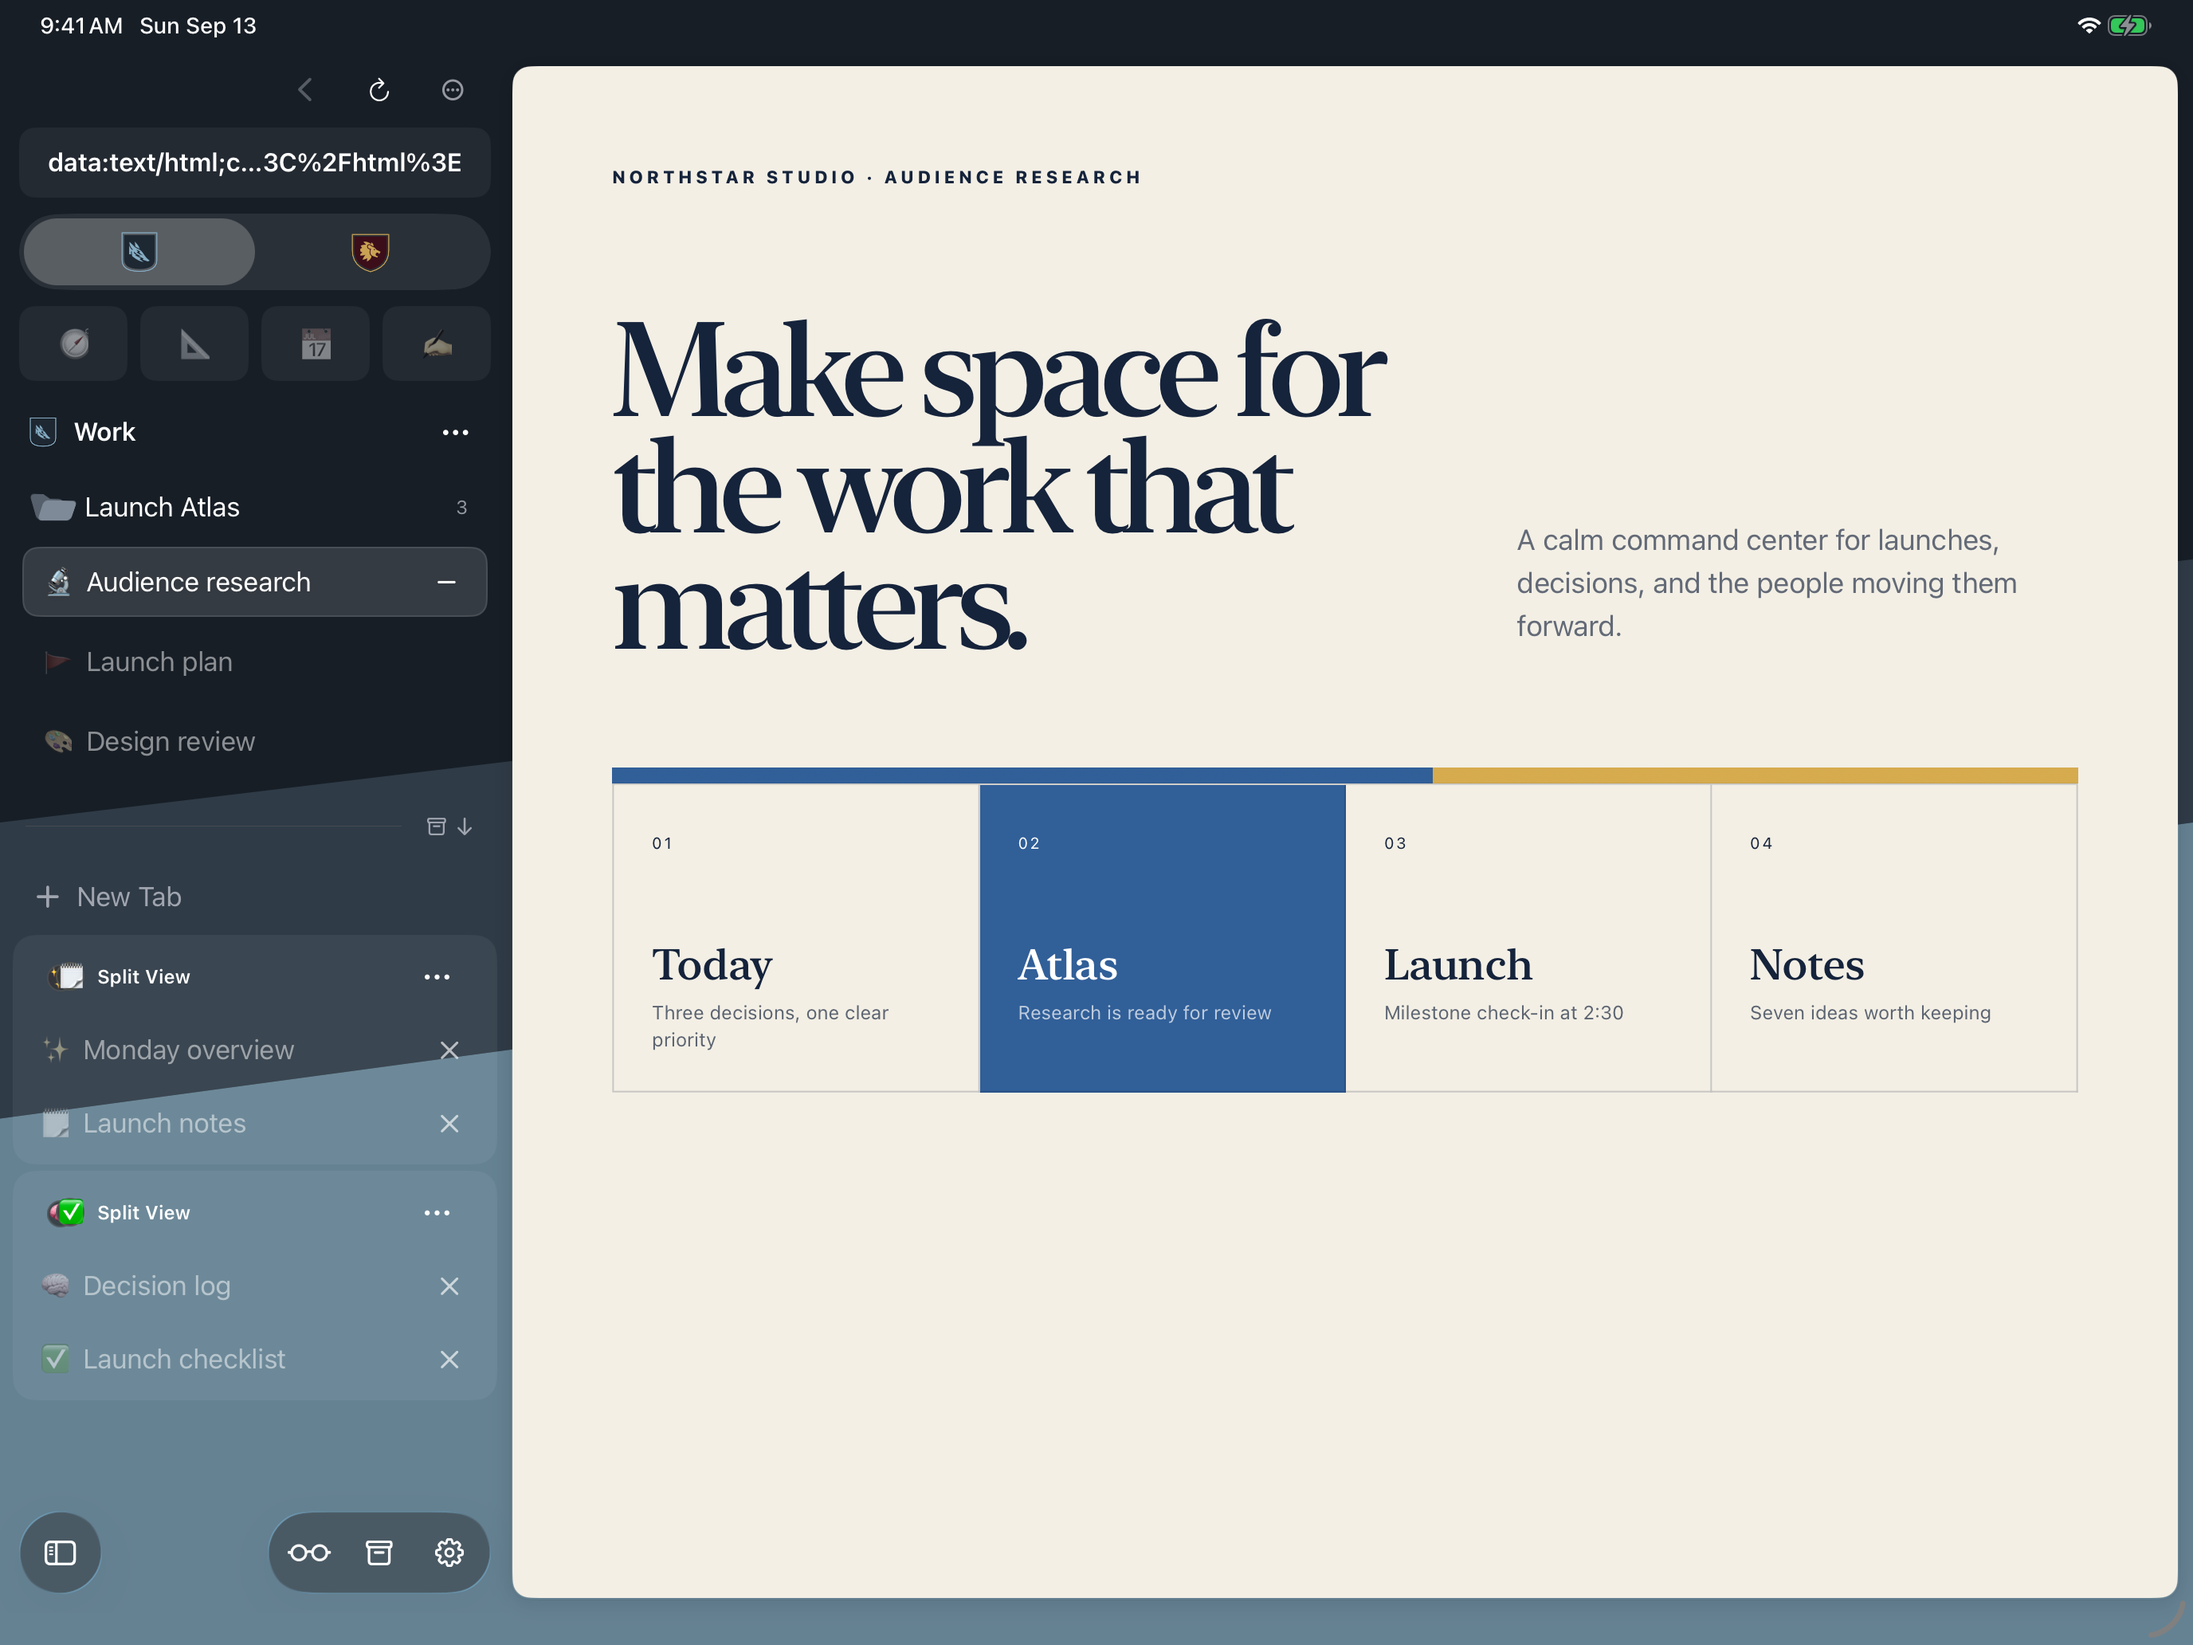
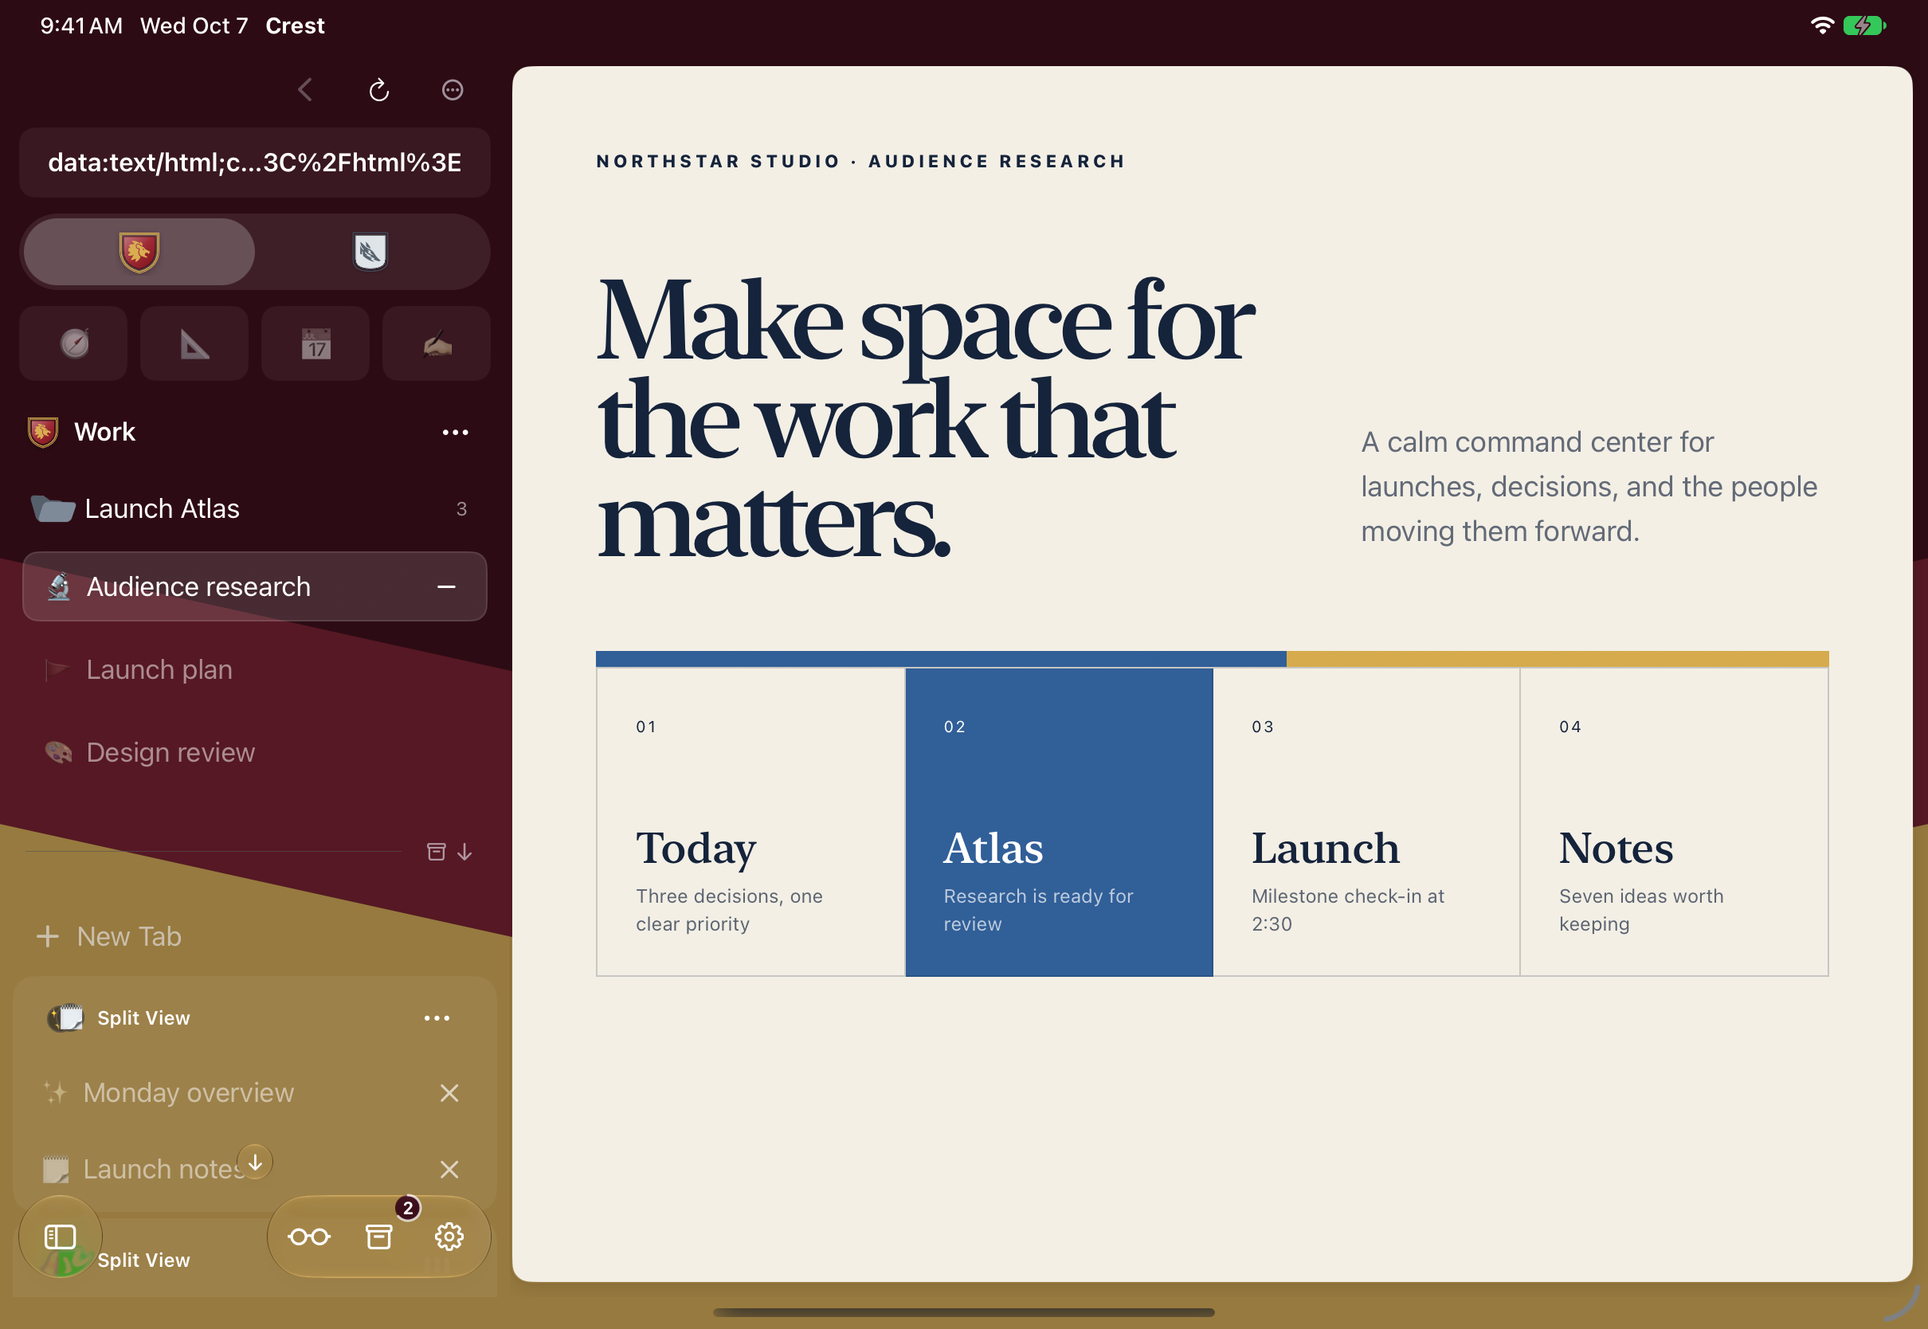
Redesign Settings and Crest Studio (crest-browser/Crest#293)
Closes crest-browser/Crest#282
Closes crest-browser/Crest#194

## Problem
- Settings looked busy and said too much: tiled icons and serif cards on
every section, a footnote under most rows, four separate Space pickers,
and one Space's settings spread over several pages.
- Crest Studio offered dozens of controls at once, and a crest could
wear at most four colors.
- Switching Spaces with Settings open stuttered, and Settings pages
scrolled heavily.
- On iPad, a normal tap or click often did nothing on buttons and menus
such as Manage Search Engines; only a long press worked (crest-browser/Crest#194).
- A tab whose stored address wasn't an ordinary web link, or was very
long, became a search when it reloaded.

## Cause
- Settings was built from custom cards and grids rather than native
forms, and Space settings had no single home.
- Settings rebuilt its form before every slide into its Space, updated
scroll state on every frame, and its page surface lacked a size the
pager could reuse.
- On iPad, tap gestures on the sidebar and page containers competed with
the buttons and menus inside them.
- Reopened addresses were sent through the same path as typed text.

## Fix
- Native grouped Settings that say less. Every Space has its own page in
the Settings sidebar (Appearance, Browsing, Privacy, Passwords,
Extensions), where Spaces are added, renamed, rearranged, locked and
deleted. Tab options have their own Tabs page, and a header shows the
version and engine.
[…]

diff --git a/site/index.html b/site/index.html
@@ -168,10 +168,13 @@ html:not(.noanim) .chip-t .tile{animation:bob var(--d,7s) ease-in-out var(--dl,0
 .chip-t .edge{left:-2.5px;right:-2.5px;top:2px;bottom:-4px;background:#fff;opacity:0;transition:opacity .25s}
 .chip-t .flagc{left:0;right:0;top:3px;bottom:0;display:flex;flex-direction:column;align-items:center;padding-top:14px;background:var(--field) 0 0/100% 100% no-repeat}
 .chip-t .flagc img{width:62px;height:62px}
+/* A crest's art leaves room around it for its shadow; draw it at the box's size. */
+img[src*="crests/"]{transform:scale(1.32)}
 .chip-t:hover .tile{filter:drop-shadow(0 24px 20px rgba(0,0,0,.6)) brightness(1.08)}
 .chip-t[aria-pressed=true] .edge{opacity:.9}
 .chip-t:focus-visible{outline:none}
 .chip-t:focus-visible .edge{opacity:1}
+.chip-t.crowded{display:none}
 @media (max-width:1180px){.chip-t{--s:.84 !important}.chip-t[data-t=sun],.chip-t[data-t=vigil]{display:none}}
 @media (max-width:980px){.chip-t[data-t=meadow],.chip-t[data-t=river]{display:none}.chip-t{--s:.72 !important}}
 @media (max-width:760px){
@@ -434,7 +437,7 @@ html:not(.noanim) .tour-in .mac{animation:rise 1s cubic-bezier(.2,.7,.2,1) both 
   .flags::-webkit-scrollbar{display:none}
   .flag{scroll-snap-align:start}
 }
-/* Studio and Look and Feel captures */
+/* Studio and Appearance captures */
 .personalize-row{display:grid;grid-template-columns:minmax(0,1.7fr) minmax(0,1fr);gap:clamp(2rem,5vw,4rem);align-items:center;margin-top:clamp(3rem,6vw,4.5rem)}
 .personalize-row.reverse{grid-template-columns:minmax(0,1fr) minmax(0,1.7fr)}
 .personalize-row.reverse figure{order:2}
@@ -626,7 +629,7 @@ footer p a{text-decoration:underline;text-underline-offset:3px;text-decoration-c
 
     <div class="personalize-row rv">
       <figure class="product-shot">
-        <a href="assets/crest-studio-mac.png" aria-label="View Crest Studio at full size"><img src="assets/crest-studio-mac.png" width="2800" height="1800" alt="Crest Studio on Mac with the Winter template selected and a live preview of the Work Space" loading="lazy" decoding="async"></a>
+        <a href="assets/crest-studio-mac.png" aria-label="View Crest Studio at full size"><img src="assets/crest-studio-mac.png" width="2800" height="1800" alt="Crest Studio on Mac with the Personal Space’s Winter crest on its sidebar background, its colors, and the shape step beside the live sidebar" loading="lazy" decoding="async"></a>
       </figure>
       <div class="personalize-copy">
         <h3>Crest Studio</h3>
@@ -636,12 +639,12 @@ footer p a{text-decoration:underline;text-underline-offset:3px;text-decoration-c
     </div>
     <div class="personalize-row reverse rv">
       <figure class="product-shot">
-        <a href="assets/crest-look-and-feel-mac.png" aria-label="View Look and Feel settings at full size"><img src="assets/crest-look-and-feel-mac.png" width="2800" height="1800" alt="Look and Feel settings on Mac with window, sidebar, tab shape, and pin layout controls" loading="lazy" decoding="async"></a>
+        <a href="assets/crest-look-and-feel-mac.png" aria-label="View Appearance settings at full size"><img src="assets/crest-look-and-feel-mac.png" width="2800" height="1800" alt="Appearance settings on Mac with window, accent, tab shape, and pin layout controls" loading="lazy" decoding="async"></a>
       </figure>
       <div class="personalize-copy">
-        <h3>Look and Feel</h3>
+        <h3>Appearance</h3>
         <p>Sidebar side, tab shape, pins, and address colors.</p>
-        <a class="text-link" href="guides/settings-reference/">Look and Feel settings →</a>
+        <a class="text-link" href="guides/settings-reference/#appearance">Appearance settings →</a>
       </div>
     </div>
   </div>
@@ -693,8 +696,8 @@ footer p a{text-decoration:underline;text-underline-offset:3px;text-decoration-c
     </div>
     <div class="devstack rv" id="devstack" data-dev="mac">
       <div class="ds-scene">
-        <div class="ds-item ds-mac" data-devitem="mac"><img src="assets/crest-work-mac.png" alt="Crest on Mac with the Winter Work Space first, Lion Personal second, and Audience research open in the Launch Atlas folder" width="2800" height="1800" loading="lazy" decoding="async"></div>
-        <div class="ds-item ds-ipad" data-devitem="ipad"><div class="bezel ipad-bz"><img src="assets/crest-work-ipad.png" alt="The same Work Space and Audience research page on iPad" width="2752" height="2064" loading="lazy" decoding="async"></div></div>
+        <div class="ds-item ds-mac" data-devitem="mac"><img src="assets/crest-work-mac.png" alt="Crest on Mac with the Lion Work Space first, Winter Personal second, and Audience research open in the Launch Atlas folder" width="2800" height="1800" loading="lazy" decoding="async"></div>
+        <div class="ds-item ds-ipad" data-devitem="ipad"><div class="bezel ipad-bz"><img src="assets/crest-work-ipad.png" alt="The same Work Space and Audience research page on iPad" width="2420" height="1668" loading="lazy" decoding="async"></div></div>
         <div class="ds-item ds-phone" data-devitem="iphone"><div class="bezel phone-bz"><img src="assets/crest-work-iphone-sidebar.png" alt="The same Work Space and Launch Atlas folder in the iPhone sidebar" width="1206" height="2622" loading="lazy" decoding="async"></div></div>
       </div>
       <div class="segs light" role="tablist" aria-label="Devices">
@@ -930,6 +933,30 @@ footer p a{text-decoration:underline;text-underline-offset:3px;text-decoration-c
   var CHIP_POS={winter:[9,20,1,-7,7],lion:[18,56,.86,6,8],storm:[5,80,.9,-4,6.5],vigil:[25,90,.7,7,9],dragon:[91,18,.96,6,7.5],meadow:[82,48,.8,-5,8.5],iron:[95,76,.86,4,6],river:[76,88,.72,-7,9.5],sun:[72,9,.66,8,7]};
   chips.innerHTML=ORDER.map(function(id,i){var p=CHIP_POS[id];return '<button type="button" class="chip-t" data-t="'+id+'" data-mode="'+CHIP_MODE[id]+'" aria-pressed="false" aria-label="'+T[id].n+', '+MODE_NAME[CHIP_MODE[id]]+' background" style="--x:'+p[0]+'%;--y:'+p[1]+'%;--s:'+p[2]+';--r:'+p[3]+'deg;--d:'+p[4]+'s;--dl:-'+(i*1.3).toFixed(1)+'s"><span class="tile"><span class="edge"></span><span class="flagc" style="--field:'+field(id,CHIP_MODE[id],84,149)+'">'+img(crest(id))+'</span><span class="bar"></span></span></button>'}).join('');
   flags.innerHTML=ORDER.map(function(id){return '<button type="button" class="flag" data-t="'+id+'" aria-label="Use '+T[id].n+'"><span class="cloth" style="--field:'+field(id,'diagonal',SIDEBAR[0],SIDEBAR[1],SIDEBAR[2])+'">'+img(crest(id))+'<span class="pins" aria-hidden="true"><i></i><i></i><i></i><i></i></span><span class="tabs" aria-hidden="true"><i></i><i class="on"></i><i></i><i></i></span></span></button>'}).join('');
+  /* A banner never covers the hero's words or hangs past the hero onto the window
+     below: one that would at this width stays off the page. */
+  var chipEls=[].slice.call(chips.querySelectorAll('.chip-t')), heroHead=document.querySelector('.hero-head');
+  var heroText=[].slice.call(document.querySelectorAll('.hero-copy h1,.hero-copy .lede,.hero-copy .fine')),
+      heroButtons=[].slice.call(document.querySelectorAll('.hero-copy .cta a'));
+  /* the lines the words fill, not the full-width blocks that centre them */
+  function wordBoxes(){
+    var boxes=[];
+    heroText.forEach(function(e){var r=document.createRange();r.selectNodeContents(e);boxes.push.apply(boxes,[].slice.call(r.getClientRects()))});
+    heroButtons.forEach(function(e){boxes.push(e.getBoundingClientRect())});
+    return boxes.filter(function(b){return b.width&&b.height});
+  }
+  function clearWords(){
+    chipEls.forEach(function(c){c.classList.remove('crowded')});
+    if(matchMedia('(max-width:760px)').matches)return;
+    var m=14, floor=heroHead.getBoundingClientRect().bottom;
+    var words=wordBoxes();
+    chipEls.forEach(function(c){
+      var r=c.getBoundingClientRect(); if(!r.width)return;
+      if(r.bottom>floor||words.some(function(w){return r.left<w.right+m&&r.right>w.left-m&&r.top<w.bottom+m&&r.bottom>w.top-m}))c.classList.add('crowded');
+    });
+  }
+  clearWords();addEventListener('resize',clearWords);addEventListener('load',clearWords);
+  if(document.fonts)document.fonts.ready.then(clearWords);
   var heroLayers=[].slice.call(document.querySelectorAll('.hb')), heroOn=0;
   function setTemplate(id,mode){
     state.work=id; state.mode=mode||'diagonal';

diff --git a/site/docs/index.html b/site/docs/index.html
@@ -140,7 +140,7 @@
       <p>Peek opens a link above the page you are reading. Close it to return immediately, or open it in the current or another Space when it earns a permanent place.</p>
 
       <h2 id="routing">Link Routing</h2>
-      <p>Crest carries Arc&rsquo;s Air Traffic Control idea forward as Link Routing. Add exact or contains rules in <strong>Settings → Quick Window and Peek</strong>, choose a destination Space, and order narrow rules before broad ones. Matching external links route before Crest applies the normal Quick Window, Most Recent Space, or Chosen Space default.</p>
+      <p>Crest carries Arc&rsquo;s Air Traffic Control idea forward as Link Routing. Add exact or contains rules in <strong>Settings → Links</strong>, choose a destination Space, and order narrow rules before broad ones. Matching external links route before Crest applies the normal Quick Window, Most Recent Space, or Chosen Space default.</p>
       <p><a href="../guides/link-routing/">Build and test a Link Routing rule.</a></p>
 
       <h2 id="migration">Moving to Crest</h2>

diff --git a/site/assets/BRAND_ASSETS.md b/site/assets/BRAND_ASSETS.md
@@ -6,6 +6,6 @@ These files are embedded without visual modification in the Crest product site:
 - `testflight-icon.webp` — dark TestFlight app artwork retained for the matching hero button.
 - `reddit-official.png` — Reddit conversation-bubble Snoo mark published on Reddit's official brand page: <https://redditinc.com/brand>
 - Discord mark (inline in `index.html`) — the Discord logo from Simple Icons (CC0), used only to link to the Crest Discord server.
-- `crests/*.svg` — Crest Studio's nine Space templates, drawn from the app's crest geometry and palettes. The figures are game-icons.net artwork by Lorc and Delapouite under CC BY 3.0 (credited in the site footer and `CrestShared/Resources/HeraldicArtworkCredits.txt`). The Sun figure and Meadow's laurel trim are SF Symbols in the app and are redrawn here as plain shapes.
+- `crests/*.svg` — Crest Studio's nine Space templates, drawn from the app's crest geometry and palettes. The figures are game-icons.net artwork by Lorc under CC BY 3.0 (credited in the site footer and `CrestShared/Resources/HeraldicArtworkCredits.txt`). The Sun and River figures and Meadow's laurel trim are SF Symbols in the app and are redrawn here as plain shapes.
 
 The surrounding labels and destinations identify the third-party service without implying sponsorship or affiliation.
